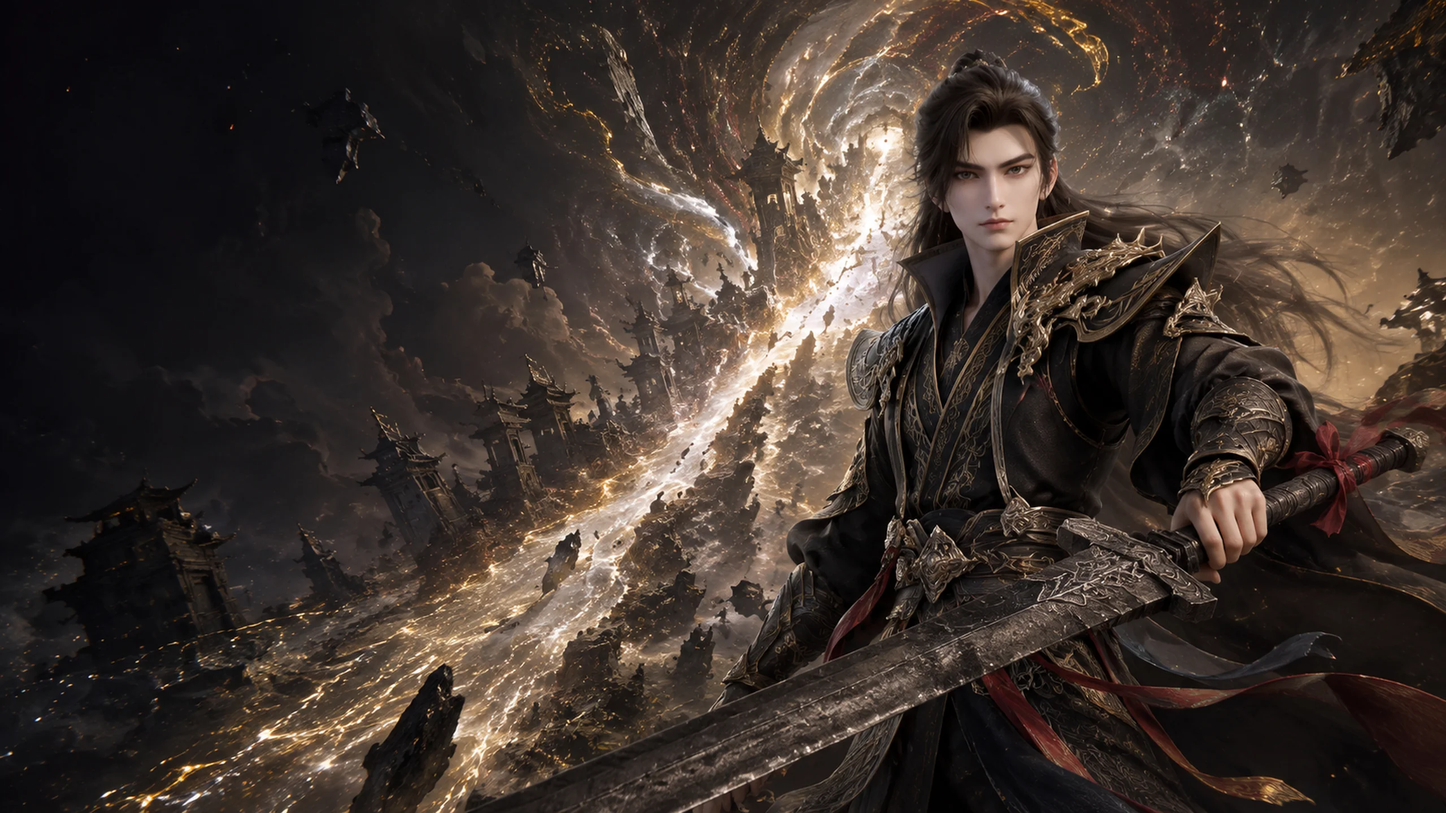
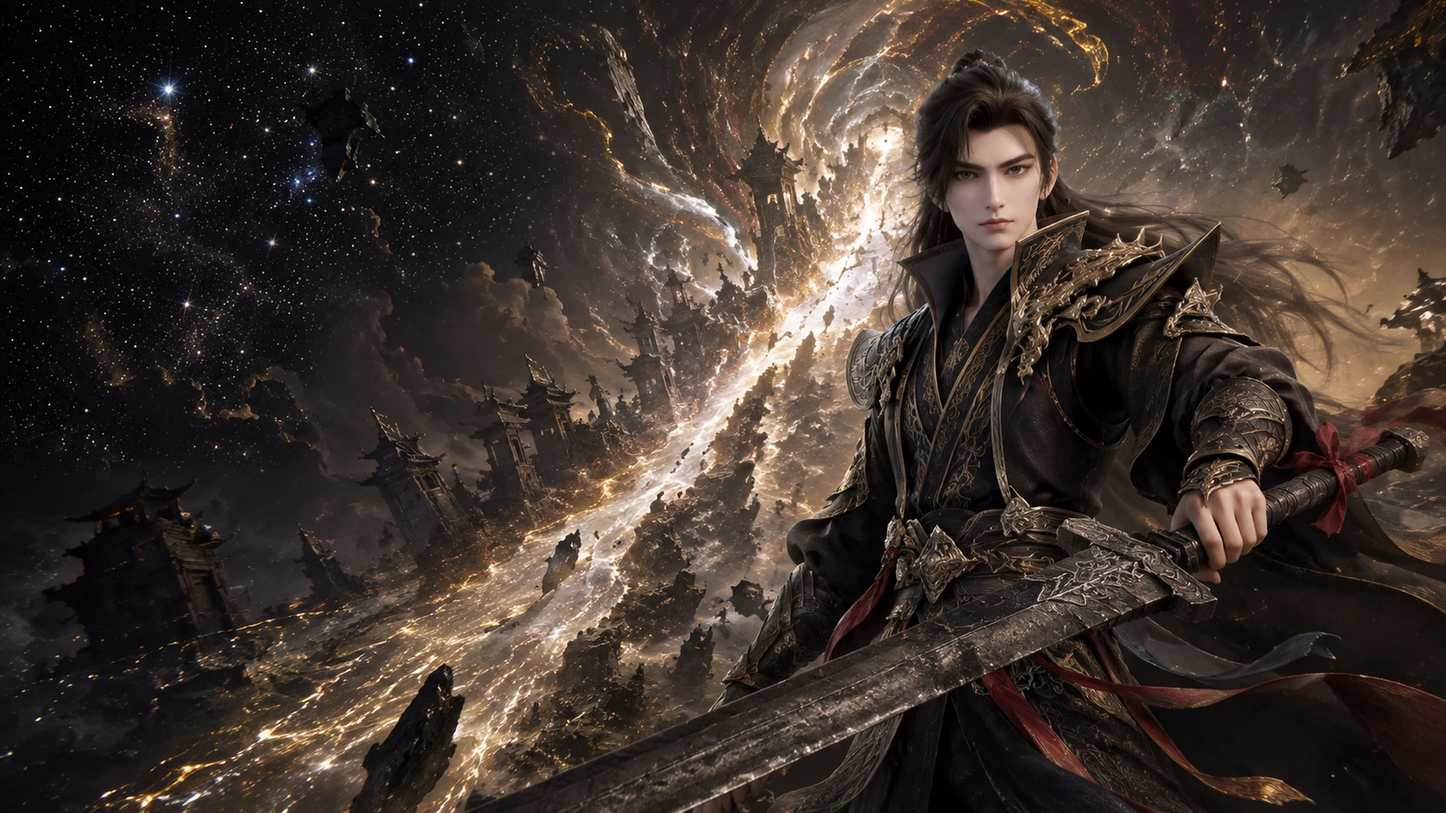
feat(theme): 更新星空壁纸并优化暗金控件配色

diff --git a/ai-theme/README.md b/ai-theme/README.md
@@ -10,6 +10,6 @@
 - 主题资源统一放在 `themes/`：初音在 `themes/miku/`，内部 ID 保留 `miku-488137`；暗金在 `themes/dark-gold/`。
 - 每套 `theme.json` 的 `colors` 定义强调色、次强调色、底色与正文色；`mode: "dark"` 启用暗色阅读层，可选的 `logo` 和 `polaroid` 缺省时不显示装饰。
 - 选择成功后保存在本地 `.selected-theme.json`，不提交 Git；暂停不会清除选择。命令行也可运行 `npm run switch -- --theme dark-gold` 或 `--theme miku`。
-- 暗金背景由原始 3840×2160 PNG 缩放为 2560×1440 WebP，质量 85，约 350 KiB；原始图片保持不变。
+- 暗金背景使用左侧带星空的版本，由 3840×2160 PNG 缩放为 2560×1440 WebP，质量 85，约 427 KiB；原始图片保持不变。
 
 Codex 更新或完全退出后，页面中的临时注入会被清除。后续通过 `start-themed.bat` 启动即可恢复主题；脚本不修改 Codex 安装目录。

diff --git a/README.md b/README.md
@@ -92,7 +92,7 @@ D:\work\ai-codex-toolkit\ai-rules\coding-standards.mdc
 ### 主题资源
 
 - [`themes/miku`](ai-theme/themes/miku)：保留初音背景、Logo 和贴图，内部主题 ID 为 `miku-488137`。
-- [`themes/dark-gold`](ai-theme/themes/dark-gold)：暗金壁纸与暗色配色，背景使用 2560×1440 WebP，约 350 KiB。
+- [`themes/dark-gold`](ai-theme/themes/dark-gold)：左侧带星空的暗金壁纸与暗色配色，背景使用 2560×1440 WebP，约 427 KiB。
 - 各主题的 `theme.json` 维护配色与图片路径；共用样式在 [`src/skin-css.mjs`](ai-theme/src/skin-css.mjs)。
 
 完整说明见 [`ai-theme/README.md`](ai-theme/README.md)。该目录是附加工具，普通代码任务不需要读取。
